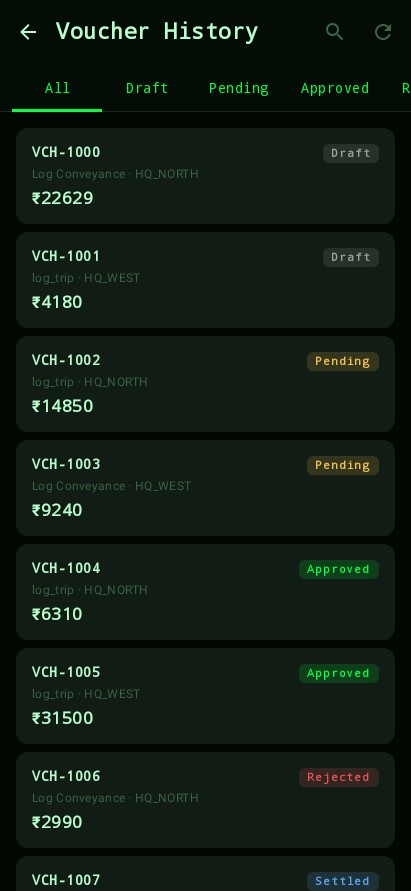
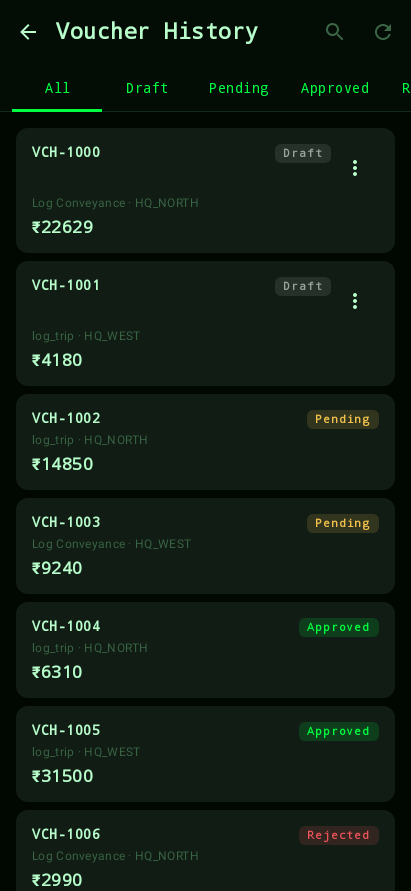
feat(P3.6): voucher withdraw (draft-only, gated + confirmed)

diff --git a/feature/logging/src/commonMain/kotlin/com/mileway/feature/logging/ui/screens/VoucherHistoryScreen.kt b/feature/logging/src/commonMain/kotlin/com/mileway/feature/logging/ui/screens/VoucherHistoryScreen.kt
@@ -1,16 +1,27 @@
 package com.mileway.feature.logging.ui.screens
 
 import androidx.compose.foundation.layout.Arrangement
+import androidx.compose.foundation.layout.Box
 import androidx.compose.foundation.layout.Column
 import androidx.compose.foundation.layout.Row
 import androidx.compose.foundation.layout.fillMaxWidth
 import androidx.compose.foundation.layout.padding
+import androidx.compose.material.icons.Icons
+import androidx.compose.material.icons.filled.Delete
+import androidx.compose.material.icons.filled.MoreVert
 import androidx.compose.material3.Card
+import androidx.compose.material3.DropdownMenu
+import androidx.compose.material3.DropdownMenuItem
+import androidx.compose.material3.Icon
+import androidx.compose.material3.IconButton
 import androidx.compose.material3.MaterialTheme
 import androidx.compose.material3.Text
 import androidx.compose.runtime.Composable
 import androidx.compose.runtime.collectAsState
 import androidx.compose.runtime.getValue
+import androidx.compose.runtime.mutableStateOf
+import androidx.compose.runtime.remember
+import androidx.compose.runtime.setValue
 import androidx.compose.ui.Modifier
 import androidx.compose.ui.text.font.FontWeight
 import androidx.compose.ui.unit.dp
@@ -18,6 +29,8 @@ import com.mileway.core.data.model.db.VoucherStatus
 import com.mileway.core.ui.components.StatusChip
 import com.mileway.core.ui.components.StatusTone
 import com.mileway.core.ui.components.scaffold.HistoryListScaffold
+import com.mileway.core.ui.components.sheet.ActionConfirmationBottomSheet
+import com.mileway.core.ui.components.sheet.ActionConfirmationToneType
 import com.mileway.feature.logging.ui.model.SubmittedVoucher
 import com.mileway.feature.logging.viewmodel.VOUCHER_HISTORY_TABS
 import com.mileway.feature.logging.viewmodel.VoucherHistoryAction
@@ -49,12 +62,28 @@ fun VoucherHistoryScreen(
         emptySubtitle = "Submitted vouchers will appear under their status.",
         itemKey = { it.id },
     ) { voucher ->
-        VoucherCard(voucher)
+        VoucherCard(
+            voucher = voucher,
+            onWithdraw = { viewModel.onAction(VoucherHistoryAction.Withdraw(voucher.id)) },
+        )
     }
 }
 
+/**
+ * P3.6: withdraw is gated to [VoucherStatus.DRAFT] rows only — a deliberate simplification of
+ * the reference app's two-factor `draft OR pending-approval` + config-flag gate, since Mileway
+ * has no separate "pending approval permission" concept to gate on. Non-DRAFT vouchers don't
+ * even show the overflow menu, since there is nothing they can do with it.
+ */
 @Composable
-private fun VoucherCard(voucher: SubmittedVoucher) {
+private fun VoucherCard(
+    voucher: SubmittedVoucher,
+    onWithdraw: () -> Unit,
+) {
+    val canWithdraw = voucher.voucherState == VoucherStatus.DRAFT.label
+    var menuExpanded by remember { mutableStateOf(false) }
+    var showWithdrawConfirmation by remember { mutableStateOf(false) }
+
     Card(modifier = Modifier.fillMaxWidth()) {
         Column(modifier = Modifier.padding(16.dp)) {
             Row(
@@ -62,7 +91,25 @@ private fun VoucherCard(voucher: SubmittedVoucher) {
                 horizontalArrangement = Arrangement.SpaceBetween,
             ) {
                 Text(voucher.id, style = MaterialTheme.typography.titleSmall, fontWeight = FontWeight.SemiBold)
-                StatusChip(label = voucher.voucherState, tone = toneFor(voucher.voucherState))
+                Row {
+                    StatusChip(label = voucher.voucherState, tone = toneFor(voucher.voucherState))
+                    if (canWithdraw) {
+                        Box {
+                            IconButton(onClick = { menuExpanded = true }) {
+                                Icon(Icons.Filled.MoreVert, contentDescription = "Voucher actions")
+                            }
+                            DropdownMenu(expanded = menuExpanded, onDismissRequest = { menuExpanded = false }) {
+                                DropdownMenuItem(
+                                    text = { Text("Withdraw") },
+                                    onClick = {
+                                        menuExpanded = false
+                                        showWithdrawConfirmation = true
+                                    },
+                                )
+                            }
+                        }
+                    }
+                }
             }
             Text(
                 "${voucher.serviceTag} · ${voucher.office}",
@@ -77,6 +124,22 @@ private fun VoucherCard(voucher: SubmittedVoucher) {
                 modifier = Modifier.padding(top = 8.dp),
             )
         }
+    }
+
+    if (showWithdrawConfirmation) {
+        ActionConfirmationBottomSheet(
+            title = "Withdraw Voucher?",
+            description = "This draft voucher (${voucher.id}) will be removed. This action cannot be undone.",
+            confirmLabel = "Withdraw",
+            dismissLabel = "Cancel",
+            icon = Icons.Filled.Delete,
+            tone = ActionConfirmationToneType.Danger,
+            onConfirm = {
+                showWithdrawConfirmation = false
+                onWithdraw()
+            },
+            onDismiss = { showWithdrawConfirmation = false },
+        )
     }
 }
 

diff --git a/app/src/test/java/com/mileway/VoucherHistoryViewModelTest.kt b/app/src/test/java/com/mileway/VoucherHistoryViewModelTest.kt
@@ -28,7 +28,8 @@ class VoucherHistoryViewModelTest {
     @get:Rule
     val mainDispatcherRule = MainDispatcherRule()
 
-    private fun viewModel(dao: FakeVoucherDao = FakeVoucherDao()) = VoucherHistoryViewModel(VoucherHistoryRepository(dao))
+    private fun viewModel(dao: FakeVoucherDao = FakeVoucherDao()) =
+        VoucherHistoryViewModel(VoucherHistoryRepository(dao), VoucherRepository(dao))
 
     private fun rows(vm: VoucherHistoryViewModel) =
         (vm.state.value.list as ScreenState.Content).data
@@ -109,5 +110,42 @@ class VoucherHistoryViewModelTest {
         assertTrue(rows.any { it.amount == 250.0 })
         // 8 seeded demo rows + the 1 just submitted, observed live without a manual Refresh.
         assertEquals(9, rows.size)
+    }
+
+    /**
+     * P3.6: withdrawing a DRAFT voucher (VCH-1000 is seeded DRAFT — see
+     * [VoucherHistoryRepository.demoSeed]) removes it from the live history list without a
+     * manual [VoucherHistoryAction.Refresh], since both the writer ([VoucherRepository.withdraw])
+     * and the reader ([VoucherHistoryRepository.observeVouchers]) share the same Room-backed DAO.
+     */
+    @Test
+    fun `Withdraw removes a DRAFT voucher from history`() = runTest {
+        val vm = viewModel()
+        advanceUntilIdle()
+        assertEquals(8, rows(vm).size)
+        assertTrue(rows(vm).any { it.id == "VCH-1000" && it.voucherState == VoucherStatus.DRAFT.label })
+
+        vm.onAction(VoucherHistoryAction.Withdraw("VCH-1000"))
+        advanceUntilIdle()
+
+        assertEquals(7, rows(vm).size)
+        assertTrue(rows(vm).none { it.id == "VCH-1000" })
+    }
+
+    /**
+     * P3.6's gate: withdraw is a no-op for anything past DRAFT — VCH-1004 is seeded APPROVED
+     * (see [VoucherHistoryRepository.demoSeed]) and must survive the call unchanged.
+     */
+    @Test
+    fun `Withdraw is a no-op for a non-DRAFT voucher`() = runTest {
+        val vm = viewModel()
+        advanceUntilIdle()
+        assertTrue(rows(vm).any { it.id == "VCH-1004" && it.voucherState == VoucherStatus.APPROVED.label })
+
+        vm.onAction(VoucherHistoryAction.Withdraw("VCH-1004"))
+        advanceUntilIdle()
+
+        assertEquals(8, rows(vm).size)
+        assertTrue(rows(vm).any { it.id == "VCH-1004" })
     }
 }

diff --git a/app/src/test/java/com/mileway/VoucherRepositoryTest.kt b/app/src/test/java/com/mileway/VoucherRepositoryTest.kt
@@ -92,4 +92,41 @@ class VoucherRepositoryTest {
 
         assertEquals(repo1.getAll().first().status, repo2.getAll().first().status)
     }
+
+    /** P3.6: withdrawing a DRAFT voucher removes it from the store outright. */
+    @Test
+    fun `withdraw removes a DRAFT voucher`() = runTest {
+        val dao = FakeVoucherDao()
+        val repo = VoucherRepository(dao)
+        repo.save(record("V-1"))
+
+        repo.withdraw("V-1")
+
+        assertEquals(0, repo.getAll().size)
+    }
+
+    /** P3.6's gate: withdraw is a no-op once the voucher has moved past DRAFT. */
+    @Test
+    fun `withdraw is a no-op for a non-DRAFT voucher`() = runTest {
+        val dao = FakeVoucherDao()
+        val repo = VoucherRepository(dao)
+        repo.save(record("V-1"))
+        repo.moveToApproval("V-1")
+
+        repo.withdraw("V-1")
+
+        assertEquals(1, repo.getAll().size)
+        assertEquals(VoucherStatus.PENDING.label, repo.getAll().first().status)
+    }
+
+    /** Defensive: withdraw on an unknown voucher number must not throw. */
+    @Test
+    fun `withdraw is a no-op for an unknown voucher number`() = runTest {
+        val dao = FakeVoucherDao()
+        val repo = VoucherRepository(dao)
+
+        repo.withdraw("does-not-exist")
+
+        assertEquals(0, repo.getAll().size)
+    }
 }

diff --git a/feature/tracking/src/commonMain/kotlin/com/mileway/feature/tracking/repository/VoucherRepository.kt b/feature/tracking/src/commonMain/kotlin/com/mileway/feature/tracking/repository/VoucherRepository.kt
@@ -76,6 +76,20 @@ class VoucherRepository(private val dao: VoucherDao) {
         if (!VoucherTransitions.isAllowed(from, to)) return
         dao.updateStatus(voucherNumber, to.label)
     }
+
+    /**
+     * P3.6: withdraws a submitted voucher — a deliberate simplification of the reference app's
+     * two-factor `draft OR pending-approval` + config-flag gate, since Mileway has no separate
+     * "pending approval permission" concept to gate on. Only [VoucherStatus.DRAFT] vouchers may
+     * be withdrawn here; anything past DRAFT (already moved to PENDING/decided/settled) is a
+     * no-op — the caller is expected to disable the action for those rows.
+     */
+    suspend fun withdraw(voucherNumber: String) {
+        val current = dao.getByNumber(voucherNumber) ?: return
+        val from = VoucherStatus.entries.firstOrNull { it.label == current.status } ?: return
+        if (from != VoucherStatus.DRAFT) return
+        dao.deleteByNumber(voucherNumber)
+    }
 }
 
 private fun VoucherEntity.toRecord() =

diff --git a/feature/logging/src/commonMain/kotlin/com/mileway/feature/logging/viewmodel/VoucherHistoryViewModel.kt b/feature/logging/src/commonMain/kotlin/com/mileway/feature/logging/viewmodel/VoucherHistoryViewModel.kt
@@ -6,6 +6,7 @@ import com.mileway.core.ui.mvi.BaseViewModel
 import com.mileway.core.ui.mvi.ScreenState
 import com.mileway.feature.logging.repository.VoucherHistoryRepository
 import com.mileway.feature.logging.ui.model.SubmittedVoucher
+import com.mileway.feature.tracking.repository.VoucherRepository
 import kotlinx.coroutines.Job
 import kotlinx.coroutines.flow.collectLatest
 import kotlinx.coroutines.launch
@@ -25,6 +26,9 @@ sealed interface VoucherHistoryAction {
     data class SelectTab(val index: Int) : VoucherHistoryAction
 
     data class SetQuery(val query: String) : VoucherHistoryAction
+
+    /** P3.6: withdraws a DRAFT voucher (gated by [VoucherRepository.withdraw]); a no-op for any other status. */
+    data class Withdraw(val voucherNumber: String) : VoucherHistoryAction
 }
 
 sealed interface VoucherHistoryEffect
@@ -37,6 +41,7 @@ sealed interface VoucherHistoryEffect
  */
 class VoucherHistoryViewModel(
     private val repository: VoucherHistoryRepository,
+    private val voucherRepository: VoucherRepository,
 ) : BaseViewModel<VoucherHistoryUiState, VoucherHistoryEffect, VoucherHistoryAction>(VoucherHistoryUiState()) {
     private var reloadJob: Job? = null
 
@@ -55,6 +60,9 @@ class VoucherHistoryViewModel(
             is VoucherHistoryAction.SetQuery -> {
                 setState { copy(query = action.query) }
                 reload()
+            }
+            is VoucherHistoryAction.Withdraw -> {
+                viewModelScope.launch { voucherRepository.withdraw(action.voucherNumber) }
             }
         }
     }

diff --git a/app/src/test/java/com/mileway/FakeVoucherDao.kt b/app/src/test/java/com/mileway/FakeVoucherDao.kt
@@ -38,4 +38,8 @@ class FakeVoucherDao : VoucherDao {
     }
 
     override suspend fun getByNumber(voucherNumber: String): VoucherEntity? = vouchers.value[voucherNumber]
+
+    override suspend fun deleteByNumber(voucherNumber: String) {
+        vouchers.value = vouchers.value - voucherNumber
+    }
 }

diff --git a/core/data/src/commonMain/kotlin/com/mileway/core/data/dao/VoucherDao.kt b/core/data/src/commonMain/kotlin/com/mileway/core/data/dao/VoucherDao.kt
@@ -34,4 +34,8 @@ interface VoucherDao {
 
     @Query("SELECT * FROM vouchers WHERE voucherNumber = :voucherNumber LIMIT 1")
     suspend fun getByNumber(voucherNumber: String): VoucherEntity?
+
+    /** P3.6: the only deleter — a withdrawn (DRAFT-only, gated by the repository) voucher is removed outright. */
+    @Query("DELETE FROM vouchers WHERE voucherNumber = :voucherNumber")
+    suspend fun deleteByNumber(voucherNumber: String)
 }

diff --git a/feature/logging/src/commonMain/kotlin/com/mileway/feature/logging/di/LoggingModule.kt b/feature/logging/src/commonMain/kotlin/com/mileway/feature/logging/di/LoggingModule.kt
@@ -28,7 +28,7 @@ val loggingModule =
         factory { LogMilesSubmitUseCase(get()) }
         viewModel { LogMilesViewModel(get(), get(), get(), get()) }
         viewModel { ExpenseViewModel(get()) }
-        viewModel { VoucherHistoryViewModel(get()) }
+        viewModel { VoucherHistoryViewModel(get(), get()) }
         viewModel { SettlementHistoryViewModel(get()) }
         viewModel { CardsTxnHistoryViewModel(get()) }
         // SP.4: Spends contribution to master search (F0.5 registry).